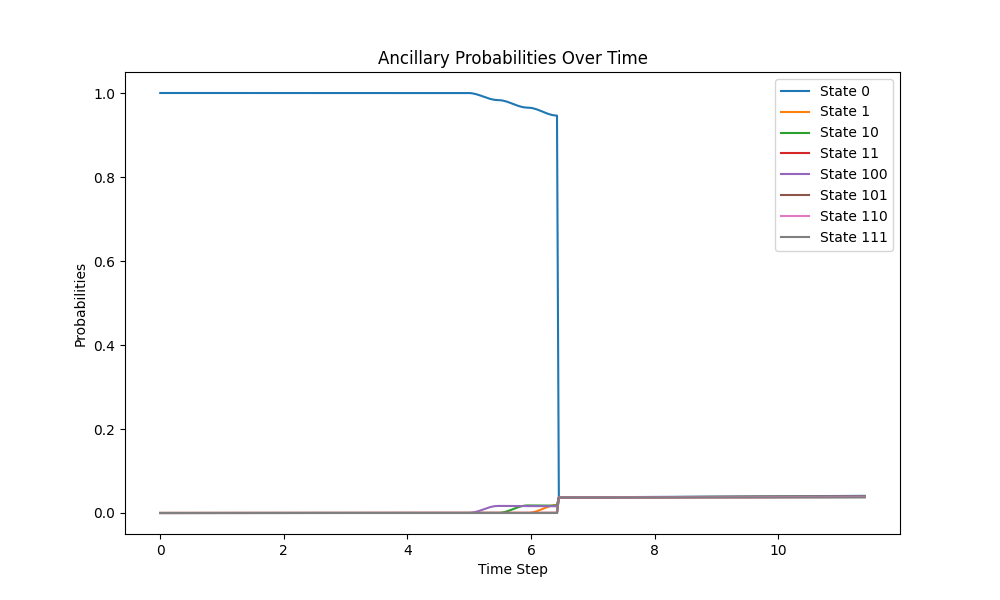
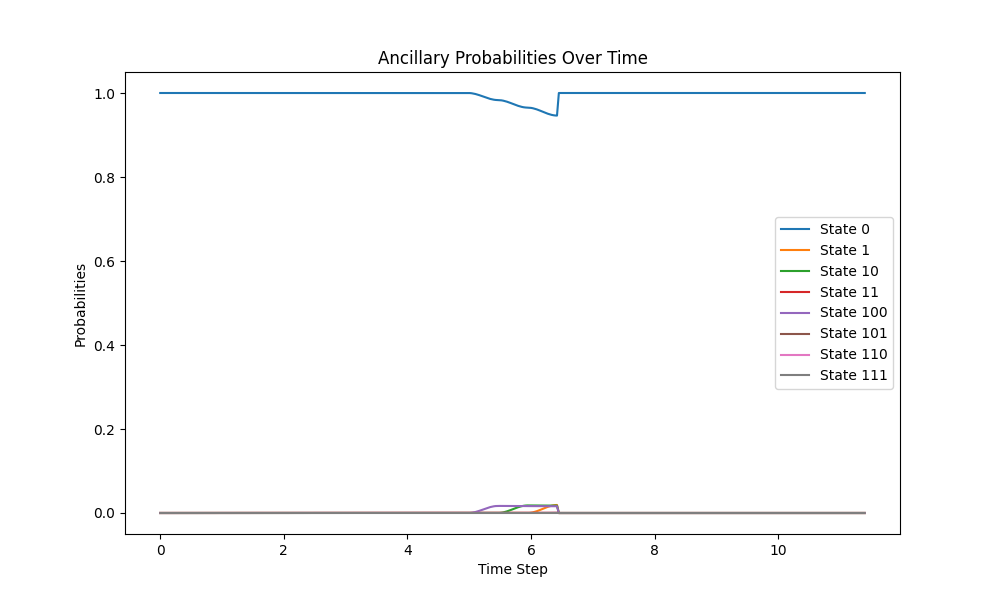
Move identity operation to experiment run function

Changed region(s): [[0.558, 0.12, 0.899, 0.66], [0.558, 0.81, 0.868, 0.87]]

diff --git a/src/quantum_logical/experiment_runner.py b/src/quantum_logical/experiment_runner.py
@@ -211,6 +211,8 @@ class ExperimentRunner:
         # start state list
         state_list = [initial_state]
 
+        state_list.extend(ExperimentRunner.run_unitary_circuit(trotterer, [qt.tensor([qt.qeye(3)] * num_qudits)], state_list[-1], [20]))
+
         for setup in setup_circuits:
             circuits, gate_times, measurements, recovery_ops, recovery_times = setup
 
@@ -256,10 +258,6 @@ class ExperimentRunner:
         gate_time = []
         N = 3 + num_ancillae
 
-        # Identity operation
-        circuit.append(qt.tensor(*[qt.qeye(3)] * (N)))
-        gate_time.append(20)
-
         # Hadamard layer
         circuit.append(qt.tensor(hadamard_operator(3), hadamard_operator(3), hadamard_operator(3), *([qt.qeye(3)] * num_ancillae)))
         gate_time.append(single_qudit_time)
@@ -304,10 +302,6 @@ class ExperimentRunner:
         circuit = []
         gate_time = []
         N = 3 + num_ancillae
-
-        # Identity operation
-        circuit.append(qt.tensor(*[qt.qeye(3)] * (N)))
-        gate_time.append(20)
 
         # Hadamard layer
         circuit.append(qt.tensor(hadamard_operator(3), hadamard_operator(3), hadamard_operator(3), *([qt.qeye(3)] * num_ancillae)))
@@ -366,10 +360,6 @@ class ExperimentRunner:
         cnot9 = cnot_operator(num_qudits=6, dim=3, control_idx=2, target_idx=1, trigger=2)
         x_gate = qt.Qobj(np.array([[0, 1, 0], [1, 0, 0], [0, 0, 1]]))
 
-        # Identity operation for 5 time units
-        circuit.append(qt.tensor(*[qt.qeye(3)] * 6))
-        gate_time.append(5)
-
         
         # CNOT Layer
         circuit.append(cnot1)
@@ -418,10 +408,6 @@ class ExperimentRunner:
         cnot8 = cnot_operator(num_qudits=6, dim=3, control_idx=2, target_idx=0, trigger=2)
         cnot9 = cnot_operator(num_qudits=6, dim=3, control_idx=2, target_idx=1, trigger=2)
         x_gate = qt.Qobj(np.array([[0, 1, 0], [1, 0, 0], [0, 0, 1]]))
-
-        # Identity operation for 5 time units
-        circuit.append(qt.tensor(*[qt.qeye(3)] * 6))
-        gate_time.append(5)
 
         
         # CNOT Layer
